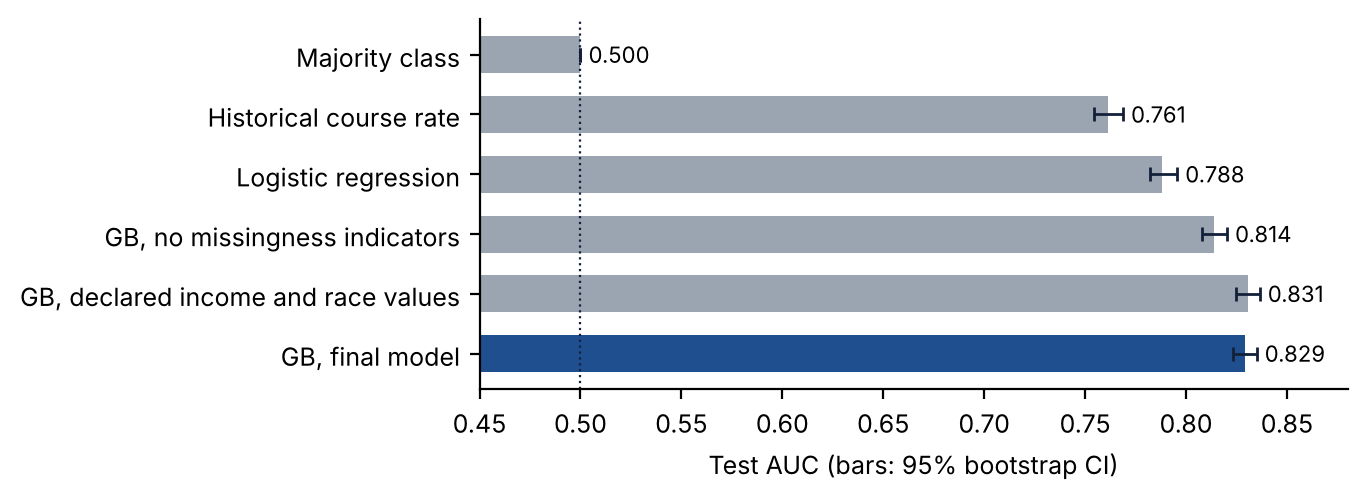
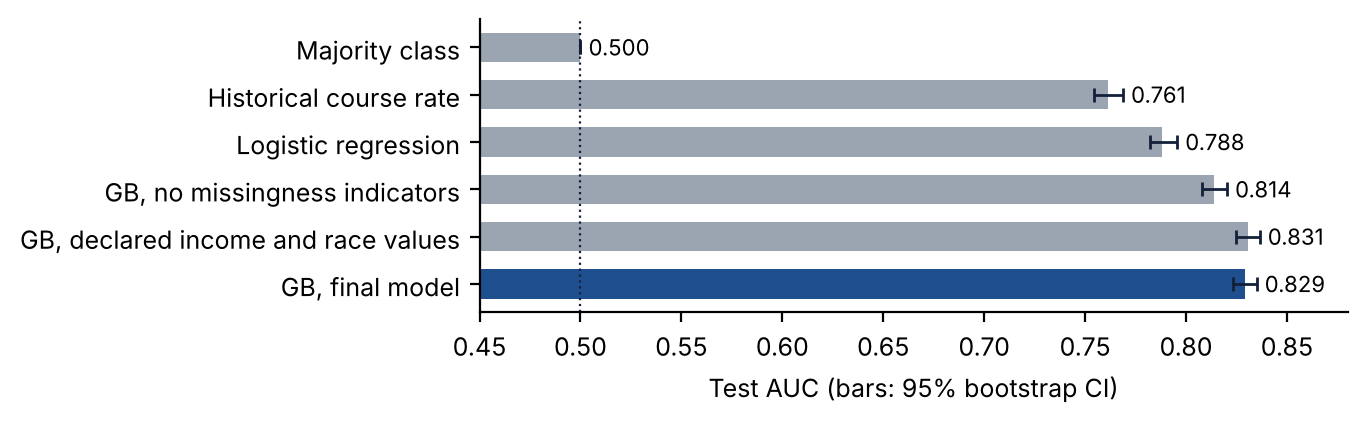
Artigo em 7 páginas

diff --git a/artigo/artigo.tex b/artigo/artigo.tex
@@ -50,49 +50,36 @@ mostra que excluir os alunos retidos, como é usual, deixa de fora 20\% das matr
 Brazil's Federal Network of Professional, Scientific and Technological Education offers technical courses
 (integrated with or after secondary school) and undergraduate programs. Dropout is one of its most persistent
 problems: in the data used here, 58.4\% of the enrollments in the Northeast whose expected end date had passed
-ended in dropout, around 51\% in technical courses and 79\% in undergraduate programs. Each dropout represents a
-student who left without a diploma and a public seat that did not produce a graduate.
+ended in dropout, around 51\% in technical courses and 79\% in undergraduate programs. 
 
-Institutions can only act on dropout if they know where to look. A risk estimate available at enrollment could
-help pedagogical and student-assistance teams prioritize follow-up before problems accumulate. However, risk
-models built on socio-economic data raise a second question: do they err in the same way for every group of
-students? A model that misses dropouts of one group, or flags another group too often, can redirect support
+A risk estimate available at enrollment could help pedagogical and student-assistance teams prioritize
+follow-up early. But a model that misses the dropouts of one group, or flags another too often, can redirect support
 unfairly~\cite{baker2022,kizilcec2022}.
 
-This work asks two questions. First, using only information available at enrollment, can dropout in the
-federal network of the Northeast be predicted better than with the historical dropout rate of the course?
-Second, are the model's errors and probabilities equally reliable across sex, race, declared income and age? The
-approach is supervised binary classification on public microdata from the Nilo Peçanha
-Platform~\cite{pnp}, with a gradient boosting model, probability calibration, a group-level fairness audit and
-three further analyses: the role of undeclared income and race, a regional versus a single-institution model,
-and the effect of excluding students still enrolled after the expected end date (retained students). The model
-is also available in a public website that computes the estimate in the browser.
+This work asks two questions: using only enrollment data, can dropout be predicted better than with the historical
+rate of the course, and are the model's errors and probabilities equally reliable across sex, race, declared income
+and age? We use supervised classification on public microdata of the Nilo Peçanha Platform (PNP)~\cite{pnp}, with calibrated gradient boosting, a
+group fairness audit and three further analyses: undeclared income and race, a regional versus a single-institution
+model, and the exclusion of students still enrolled after the expected end (retained students).
 
 \section{Related Work}
 
-Several Brazilian studies predict dropout with data from the Nilo Peçanha Platform (PNP).
+Several Brazilian studies predict dropout with PNP data.
 \cite{oliveira2022} used the PNP enrollment microdata for 2019 and 2020, for the whole federal network and for the
 Federal Institute of Paraíba (IFPB), with Random Forest for feature selection and classification. They report
-accuracies between 0.86 and 0.90, with workload, race, age group and municipality among the most relevant
-features. Like us, they excluded students still enrolled. Their data, however, are yearly snapshots of the
-enrollment file, which mostly contain students active in that year; we use the Academic Efficiency files, which
-follow complete cohorts to their final status, and we report AUC and calibration rather than accuracy alone, so
-the figures are not directly comparable. \cite{barbosa2023} compared several algorithms on academic records of
-one campus of the Federal Institute of Pernambuco and found XGBoost to perform best, and \cite{cabral2025} used
-PNP records from 2017 to 2023 of one IFPB campus, with a prospective test on 2023 data, finding Random Forest
-the best model by AUC and recall. These studies focus on one institution or campus and on overall performance;
+accuracies between 0.86 and 0.90, but on yearly snapshots of the enrollment file, which mostly contain students
+active in that year; we use the Academic Efficiency files, which follow complete cohorts to their final status, so
+the figures are not directly comparable. On single campuses, \cite{barbosa2023} found XGBoost the best model for
+the Federal Institute of Pernambuco, and \cite{cabral2025}, with PNP records of an IFPB campus from 2017 to 2023
+and a prospective test on 2023, found Random Forest the best by AUC and recall. These studies focus on one institution or campus and on overall performance;
 none of them examines whether the errors are evenly distributed across groups of students.
 
-The fairness literature in education points exactly to that gap. \cite{baker2022} review the evidence of
-algorithmic bias in education and \cite{kizilcec2022} discuss how bias enters through measurement, model learning
-and action. \cite{gardner2019} propose slicing analysis, evaluating the model separately for each group, which is
-the approach we follow. \cite{yu2021} studied college dropout prediction with and without protected attributes
-(gender, minority status, first-generation status and financial need) in a large U.S. university and found that
-including them did not change overall performance and only marginally improved fairness. Our results agree on
-performance, but in our data the strongest socio-economic signal is whether the attribute was declared at all.
-Finally, \cite{kleinberg2017} and \cite{chouldechova2017} show that when base rates differ between groups, a
-calibrated model cannot also equalize error rates such as the false positive rate~\cite{hardt2016}; this result
-frames how we interpret the group differences in Section~\ref{sec:results}.
+The fairness literature in education points exactly to that gap. \cite{baker2022} and \cite{kizilcec2022} review algorithmic bias in
+education, and \cite{gardner2019} propose slicing analysis, evaluating the model separately for each group, as we
+do. \cite{yu2021} found that adding protected attributes to a U.S. college dropout model did not
+change overall performance and only marginally improved fairness. 
+Finally, when base rates differ, a calibrated model cannot also equalize error rates such as the false positive
+rate~\cite{kleinberg2017,chouldechova2017,hardt2016}.
 
 \section{Methodology}
 
@@ -101,17 +88,14 @@ frames how we interpret the group differences in Section~\ref{sec:results}.
 We used the Academic Efficiency microdata of the PNP~\cite{pnp}, editions 2021, 2022 and 2023, published under the
 Open Data Commons Open Database License. Each edition contains one row per enrollment in a course cycle whose
 expected end date fell in the previous year, with the final status of the student: completed, dropped out or still
-enrolled (retained). We kept the Northeast (region derived from the state, since the region column is not
-reliable), and technical, technology, teacher-education (licenciatura) and bachelor's courses. Internal transfers
-were not counted as dropout. The label is 1 for dropout and 0 for completion; retained students were excluded from
-the main base because their outcome is still unknown, and analyzed separately (Section~\ref{sec:retained}). The
-resulting base has 178,484 enrollments from 23 institutions, 219 campuses and 203 courses, with a dropout rate of
-58.4\% (57.9\%, 60.9\% and 56.4\% in the three editions).
+enrolled (retained). We kept the Northeast and technical, technology, teacher-education and bachelor's courses;
+internal transfers were not counted as dropout. The label is 1 for dropout and 0 for completion; retained students were excluded from
+the main base because their outcome is still unknown, and analyzed separately (Section~\ref{sec:retained}). The base has 178,484 enrollments from 23 institutions, 219 campuses and 203 courses, with
+58.4\% dropout (57.9\%, 60.9\% and 56.4\% by edition).
 
-Two data-quality steps were necessary. The age at enrollment was recomputed from the age on December 31 of the
-edition year and the year of entry. Institution names changed between editions (acronyms in 2021 and 2022, full
-names in 2023), so the same institution appeared as two categories that also encoded the edition; the names were
-standardized, which lowered the test AUC from 0.832 to 0.829, the honest value, since the edition is not known at
+The age at enrollment was recomputed from the age on December 31 of the edition year. Institution names
+changed between editions (acronyms in 2021--2022, full names in 2023), so the name also encoded the edition; after
+standardizing them, the test AUC fell from 0.832 to 0.829, the honest value, since the edition is unknown at
 prediction time.
 
 \subsection{Features and protocol}
@@ -120,17 +104,15 @@ The model uses 19 features known at enrollment: institution, campus, state, cour
 (integrated, concurrent, subsequent, adult education), modality, shift, technological area and sub-area, funding
 program, workload, expected duration, month of entry, age at entry, sex, race, and two indicators of whether income
 and race were left undeclared. The enrollments were randomly split into training (70\%, 124,938), validation (20\%,
-35,697) and test (10\%, 17,849) sets, stratified by edition and label with a fixed seed (42). All encoders and models
-were fitted on the training set; hyperparameters, calibration and decision thresholds were chosen on the validation
-set; the test set was used once, after all decisions.
+35,697) and test (10\%, 17,849) sets, stratified by edition and label with a fixed seed (42). Models were fitted on
+training data, tuned, calibrated and thresholded on validation; the test set was used once, at the end.
 
 \subsection{Models}
 
-We compared five references: the majority class; the historical dropout rate of the course in the campus, smoothed
-toward the rate of the course type (a strong rule an institution could compute without machine learning); logistic
-regression with one-hot encoding; and gradient boosting with and without the missingness indicators and with the
-declared income and race values. The main model is scikit-learn's histogram gradient boosting~\cite{pedregosa2011},
-inspired by LightGBM~\cite{ke2017}, with native categorical features, early stopping and L2 regularization of 1.0.
+The references are the majority class; the historical dropout rate of the course in the campus, smoothed toward the
+rate of the course type (a rule an institution could compute without machine learning); logistic regression with
+one-hot encoding; and gradient boosting variants without the missingness indicators or with the declared income and
+race values. The main model is scikit-learn's histogram gradient boosting~\cite{pedregosa2011}, with native categorical features, early stopping and L2 regularization of 1.0.
 Twelve combinations of learning rate (0.05, 0.1), maximum leaves (15, 31, 63) and minimum samples per leaf (20, 100)
 were compared by validation AUC; the final model uses 0.05, 63 and 100, with 519 trees. Probabilities were
 calibrated with isotonic regression~\cite{zadrozny2002} on the validation set. Because the levels have very different
@@ -156,35 +138,24 @@ Figure~\ref{fig:models} compares the models on the test set. The final model rea
 (0.823--0.835) and a Brier score of 0.165, against 0.761 and 0.195 for the historical course rate and 0.788 and
 0.183 for logistic regression. With the per-level thresholds it classifies 72.5\% of the test enrollments correctly
 (balanced accuracy 72.4\%), against 68.0\% for the historical course rate. Accuracy is not uniform: in the 10\% of
-students on whom the model is most confident it is right 88\% of the time, and 85\% in the top 30\%
-(Figure~\ref{fig:coverage}). In practice, a confident estimate deserves more weight than one near the threshold. The
-learning curve was still rising (validation AUC 0.819 with half of the training data and 0.831 with all of it), so
-more editions or regions are likely to help.
+students on whom the model is most confident it is right 88\% of the time, and 85\% in the top 30\%. The learning curve was still rising (validation AUC 0.819 with half of the
+training data, 0.831 with all of it), so more data is likely to help.
 
 \begin{figure}[ht]
 \centering
-\includegraphics[width=.82\textwidth]{fig_models.pdf}
+\includegraphics[width=.6\textwidth]{fig_models.pdf}
 \caption{Test AUC of the references and of the gradient boosting (GB) variants, with 95\% bootstrap intervals.}
 \label{fig:models}
 \end{figure}
 
-\begin{figure}[ht]
-\centering
-\includegraphics[width=.62\textwidth]{fig_coverage.pdf}
-\caption{Accuracy when the model decides only on the share of students on whom it is most confident.}
-\label{fig:coverage}
-\end{figure}
-
 \subsection{Undeclared income and race}
 
-Missing information was the strongest socio-economic signal. In the 2023 enrollment file, which covers students who
-entered between 2015 and 2023, the share without declared income among students still enrolled is about the same
-for every entry year (around 24\% for 2023 entrants), which indicates that income is recorded, or not, at enrollment
-and is not filled in later as an effect of the outcome. Within the same institution, students without declared
+Missing information was the strongest socio-economic signal. In the 2023 enrollment file (entrants from 2015 to 2023),
+the share without declared income among students still enrolled is similar for every entry year (24\% for 2023
+entrants), so income is recorded, or not, at enrollment and does not leak the outcome. Within the same institution, students without declared
 income dropped out more in 15 of 16 comparable institutions (median difference of 11.9 points), and students without
-declared race in 15 of 16 (13.8 points). On the validation set, the two missingness indicators alone added 0.018 of
-AUC, more than the full declared values (106\% of their gain), and among students who declared both, adding the
-values changed the AUC by $-0.004$. Race was adopted as an input because it reduced the underestimation of the risk
+declared race in 15 of 16 (13.8 points). On validation, the two missingness indicators alone added 0.018 of AUC,
+106\% of the gain of the full declared values, which add nothing ($-0.004$) among students who declared both. Race was adopted as an input because it reduced the underestimation of the risk
 of Indigenous students from 5.8 to 3.0 points on validation (10.4 to 6.6 on test) at a cost of 0.0005 of AUC. The
 declared income bracket was not adopted: the model was already calibrated across income brackets (largest error 3.3
 points), and the bracket reduced it by only 1.2 points.
@@ -192,18 +163,16 @@ points), and the bracket reduced it by only 1.2 points.
 \subsection{Group fairness}
 
 Figure~\ref{fig:fairness} shows the slicing analysis of the final model. Calibration is good for almost every group
-(errors within $\pm$3 points), so a predicted probability means roughly the same for men and women, for each race and
-for each income group. Error rates, however, differ: men have higher recall (77.1\% vs.\ 67.5\%) but also more false
+(errors within $\pm$3 points). Error rates, however, differ: men have higher recall (77.1\% vs.\ 67.5\%) but also more false
 positives (33.6\% vs.\ 23.1\%), and the same pattern separates students with and without declared income. These
 differences follow from different base rates, as predicted by \cite{kleinberg2017} and \cite{chouldechova2017}: a
-calibrated model gives more alerts where dropout is more frequent. Two groups need attention. Indigenous students are
-still underestimated by 6.6 points, a small group (98 test enrollments) for which the estimate is uncertain.
-Students aged 17 or less, almost all in technical courses, have a low dropout rate and only 39\% of their
-dropouts are flagged; for them the model should not be the only screening tool.
+calibrated model gives more alerts where dropout is more frequent. Two groups need attention: Indigenous students
+are still underestimated by 6.6 points (98 test enrollments), and only 39\% of the dropouts of students aged 17 or
+less are flagged, so the model should not be their only screening tool.
 
 \begin{figure}[ht]
 \centering
-\includegraphics[width=\textwidth]{fig_fairness.pdf}
+\includegraphics[width=.74\textwidth]{fig_fairness.pdf}
 \caption{Slicing analysis of the final model on the test set, with per-level thresholds. The false positive rate
 of Indigenous students is omitted because the group has fewer than 30 students who completed.}
 \label{fig:fairness}
@@ -211,18 +180,18 @@ of Indigenous students is omitted because the group has fewer than 30 students w
 
 \subsection{Regional model or institution-specific model?}
 
-Institutions differ in dropout, which raises the question of whether a local model would serve them better. For the
-Federal Institute of Piauí (IFPI), with 13,066 training and 1,952 test enrollments, we compared the regional model
-with a model trained only on IFPI data, the regional model recalibrated on IFPI validation data, and the regional
-model without institution and campus (Table~\ref{tab:ifpi}). All four tie: the paired bootstrap differences in AUC
-include zero, and the regional model is already calibrated for IFPI (mean error of 0.8 points). Removing institution
-and campus does not hurt the ranking within IFPI, which suggests that differences between institutions come mostly
-from their mix of courses, offers and students. A single regional model is therefore adequate.
+For the Federal Institute of Piauí (IFPI), with 13,066 training and 1,952 test enrollments, we compared the
+regional model with a model trained only on IFPI data, the regional model recalibrated on IFPI, and the regional model
+without institution and campus (Table~\ref{tab:ifpi}). All four tie (paired differences include zero), and the
+regional model is already calibrated for IFPI (mean error of 0.8 points). Since removing institution and campus does
+not hurt, differences between institutions seem to come from their mix of courses and students; a single regional
+model is adequate.
 
 \begin{table}[ht]
 \centering
 \caption{Models evaluated on the IFPI test enrollments (n = 1,952). Difference: paired bootstrap, 95\% CI.}
 \label{tab:ifpi}
+\small
 \begin{tabular}{lcc}
 \toprule
 Model & AUC & Difference from regional \\
@@ -238,21 +207,22 @@ Regional without institution and campus & 0.810 & $+0.002$ ($-0.006$ to $+0.010$
 \subsection{Retained students}
 \label{sec:retained}
 
-Retained students are commonly excluded from dropout studies~\cite{oliveira2022}, as in our main model. They are
-44,723 enrollments, 20.0\% of all those whose expected end had passed (29.2\% in undergraduate programs). They
-resemble dropouts more than graduates: their median age at entry is 21, as for dropouts (17 for graduates), and the
-final model assigns them an average risk of 65\%, close to dropouts (72\%) and far from graduates (40\%). We trained a
-second model for ``did not complete on time'' (dropout or retained). Each model performs about as well on its own
-question (Table~\ref{tab:retained}), but the second one has smaller gaps between groups: the recall gap between
+Retained students are usually excluded from dropout studies~\cite{oliveira2022}, as in our main model. They are
+44,723 enrollments, 20.0\% of all whose expected end had passed (29.2\% in undergraduate programs), and resemble
+dropouts: median age at entry of 21, as for dropouts (17 for graduates), and an average predicted risk of 65\%, close
+to dropouts (72\%) and far from graduates (40\%). We trained a
+second model for ``did not complete on time'' (dropout or retained). Both perform alike on their own question
+(Table~\ref{tab:retained}), but the second has smaller gaps between groups: the recall gap between
 students with and without declared income falls from 17.3 to 11.9 points, the false positive gap between levels from
 6.4 to 1.4, and the calibration error for Indigenous students from $-6.6$ to $-4.1$. Excluding retained students
 therefore probably underestimates non-completion and slightly increases group disparities. We kept dropout as the
-main target because it is a definitive outcome and the one used by the PNP indicators.
+main target because it is a definitive outcome.
 
 \begin{table}[ht]
 \centering
 \caption{Each model evaluated on its own question in the test set.}
 \label{tab:retained}
+\small
 \begin{tabular}{lcc}
 \toprule
  & Dropout (main) & Did not complete on time \\
@@ -265,34 +235,29 @@ Recall / false positive rate & 72.8\% / 28.0\% & 70.7\% / 26.4\% \\
 \end{tabular}
 \end{table}
 
-\subsection{Limitations and risks}
-
-The estimate describes the history of students with a similar profile, not the future of a person, and uses only
-enrollment data, without grades or attendance, which limits accuracy. The cohorts went through the COVID-19
-pandemic, and the data cover only the Northeast, so the model should not be applied to universities or other
-regions without validation. Small groups have wide uncertainty. The model must be used to offer support, never to
-deny seats, scholarships or rights.
+\textbf{Limitations and risks.} The estimate describes students with a similar profile, not the future of a person;
+it uses no grades or attendance, the cohorts went through the COVID-19 pandemic, and it covers only the Northeast. It
+must be used to offer support, never to deny seats, scholarships or rights.
 
 \section{Conclusion}
 
-Using only information available at enrollment, a calibrated gradient boosting model predicts dropout in the
-federal network of the Northeast clearly better than the historical rate of the course (AUC 0.829 vs.\ 0.761), and
-a regional model serves an individual institute as well as a local one. Its probabilities are reliable across
-groups, but error rates follow the different base rates, Indigenous students remain underestimated and young
-technical students are hard to flag. The strongest socio-economic signal is not income or race themselves but
-whether they were declared, and the common exclusion of retained students hides a fifth of the cohort. Future work
-includes adding grades and attendance from the first semester, more editions and regions, a temporal validation, and
-fairness-aware thresholds for the groups with larger gaps. A demonstration website computes the estimate in the
-browser and shows, through group Shapley values~\cite{lundberg2017}, which characteristics moved each estimate.
+With enrollment data only, a calibrated gradient boosting model predicts dropout clearly better than the historical
+course rate (AUC 0.829 vs.\ 0.761), and a regional model serves an institute as well as a local one. Probabilities
+are reliable across groups, but error rates follow base rates, Indigenous students remain underestimated and young
+technical students are hard to flag. The strongest socio-economic signal is whether income and race were declared,
+and excluding retained students hides a fifth of the cohort. Future work
+includes first-semester grades and attendance, more editions and regions, temporal validation and fairness-aware
+thresholds. A demonstration website computes the estimate in the browser and explains it with group Shapley
+values~\cite{lundberg2017}.
 
 \section*{Data and Code Availability}
 
-\begin{itemize}
-\item Dataset (raw PNP microdata and cleaned base, ODbL): \url{https://www.kaggle.com/datasets/mariaingridxavier/evasao-na-rede-federal-do-nordeste-pnp-2021-2023}
-\item Notebook, executed end to end: \url{https://www.kaggle.com/code/mariaingridxavier/evasao-na-rede-federal-do-ne-previsao-e-vies}
-\item Code repository: \url{https://github.com/mingridxs/evasao-rede-federal-ne}
-\item Demonstration website: \url{https://mingridxs.github.io/evasao-rede-federal-ne/}
-\end{itemize}
+\noindent Dataset (raw PNP microdata and cleaned base, ODbL):\\
+\url{https://www.kaggle.com/datasets/mariaingridxavier/evasao-na-rede-federal-do-nordeste-pnp-2021-2023}\\
+Notebook, executed end to end:\\
+\url{https://www.kaggle.com/code/mariaingridxavier/evasao-na-rede-federal-do-ne-previsao-e-vies}\\
+Code: \url{https://github.com/mingridxs/evasao-rede-federal-ne}\\
+Demonstration website: \url{https://mingridxs.github.io/evasao-rede-federal-ne/}
 
 \section*{Use of Large Language Models}
 

diff --git a/artigo/figuras_artigo.py b/artigo/figuras_artigo.py
@@ -26,7 +26,7 @@ rows = [("Majority class", "Classe majoritária"),
         ("GB, no missingness indicators", "Gradient boosting (sem indicadores) · calibrado"),
         ("GB, declared income and race values", "Gradient boosting (completo) · calibrado"),
         ("GB, final model", "Gradient boosting (principal) · calibrado")]
-fig, ax = plt.subplots(figsize=(5.6, 2.4))
+fig, ax = plt.subplots(figsize=(5.6, 1.9))
 for i, (label, key) in enumerate(rows):
     auc, lo, hi = m.loc[key, ["AUC", "AUC IC inf", "AUC IC sup"]]
     final = label.endswith("final model")
